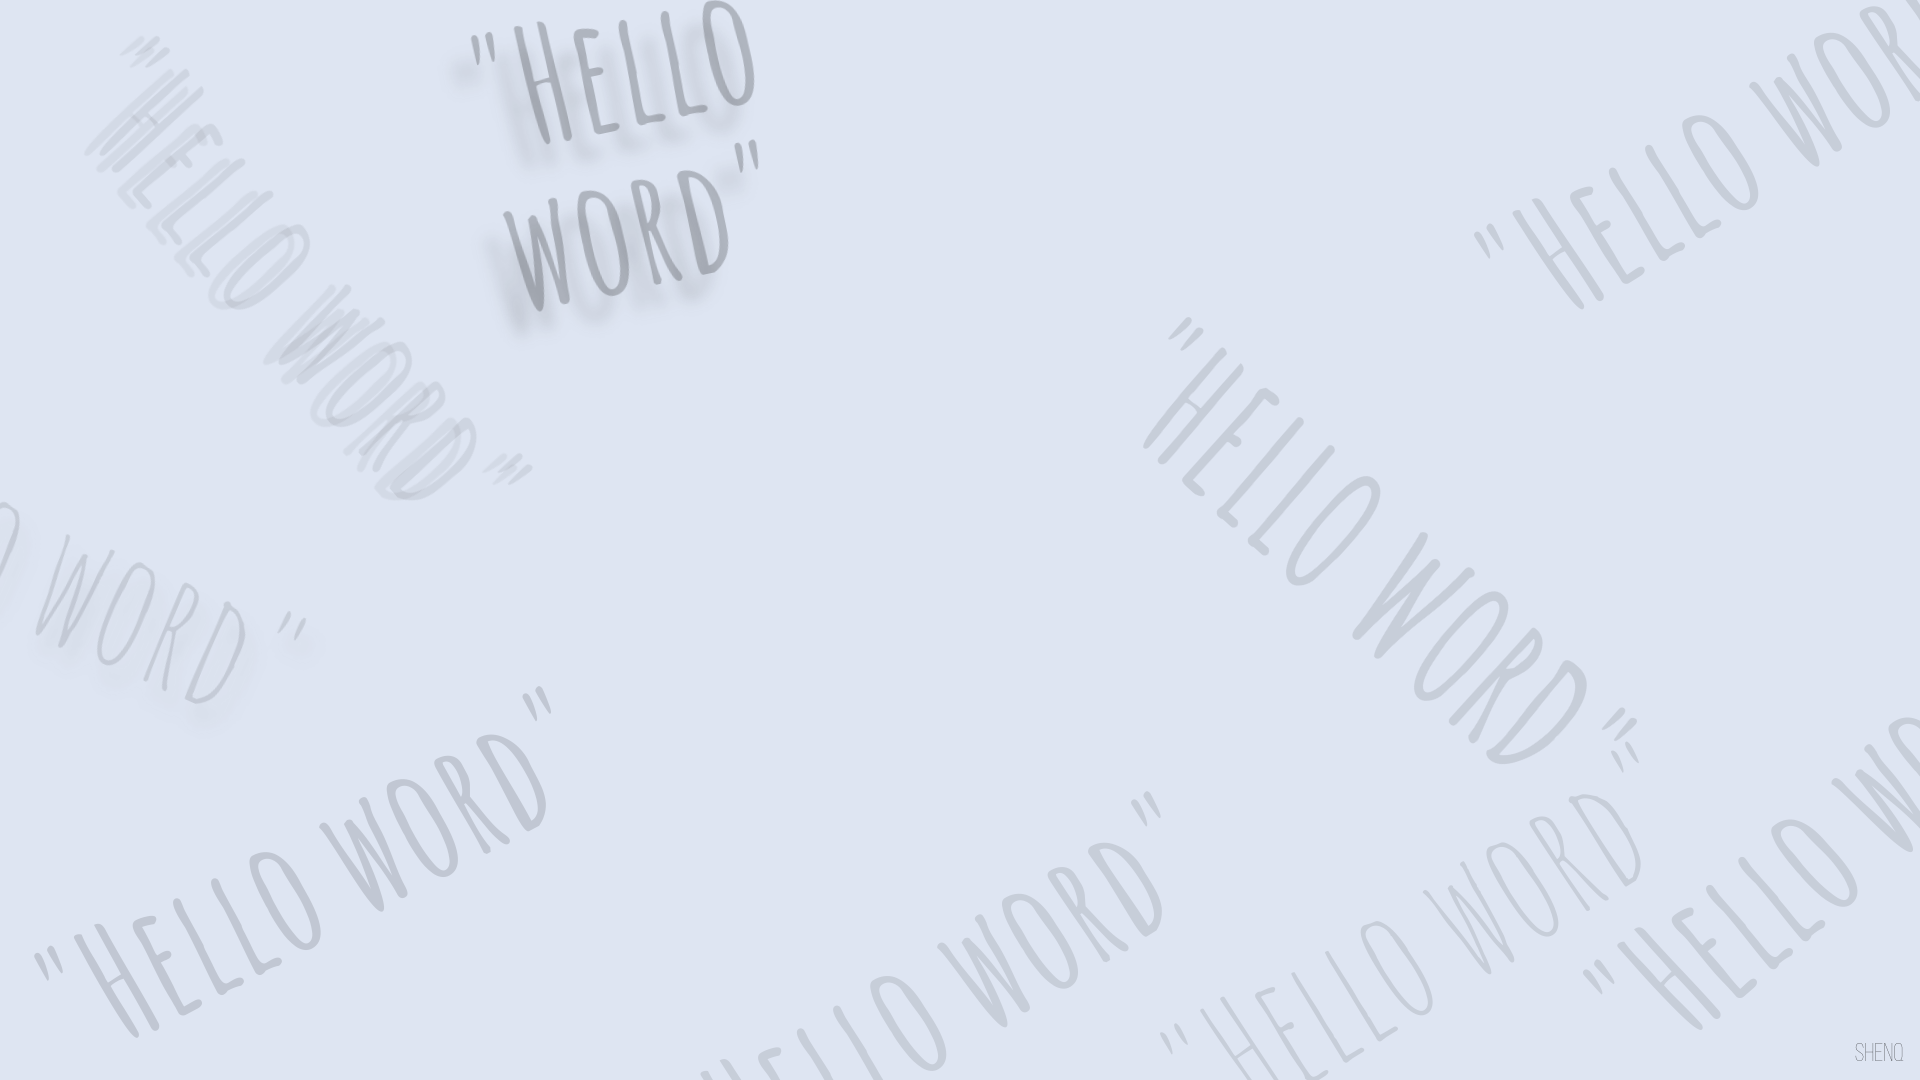
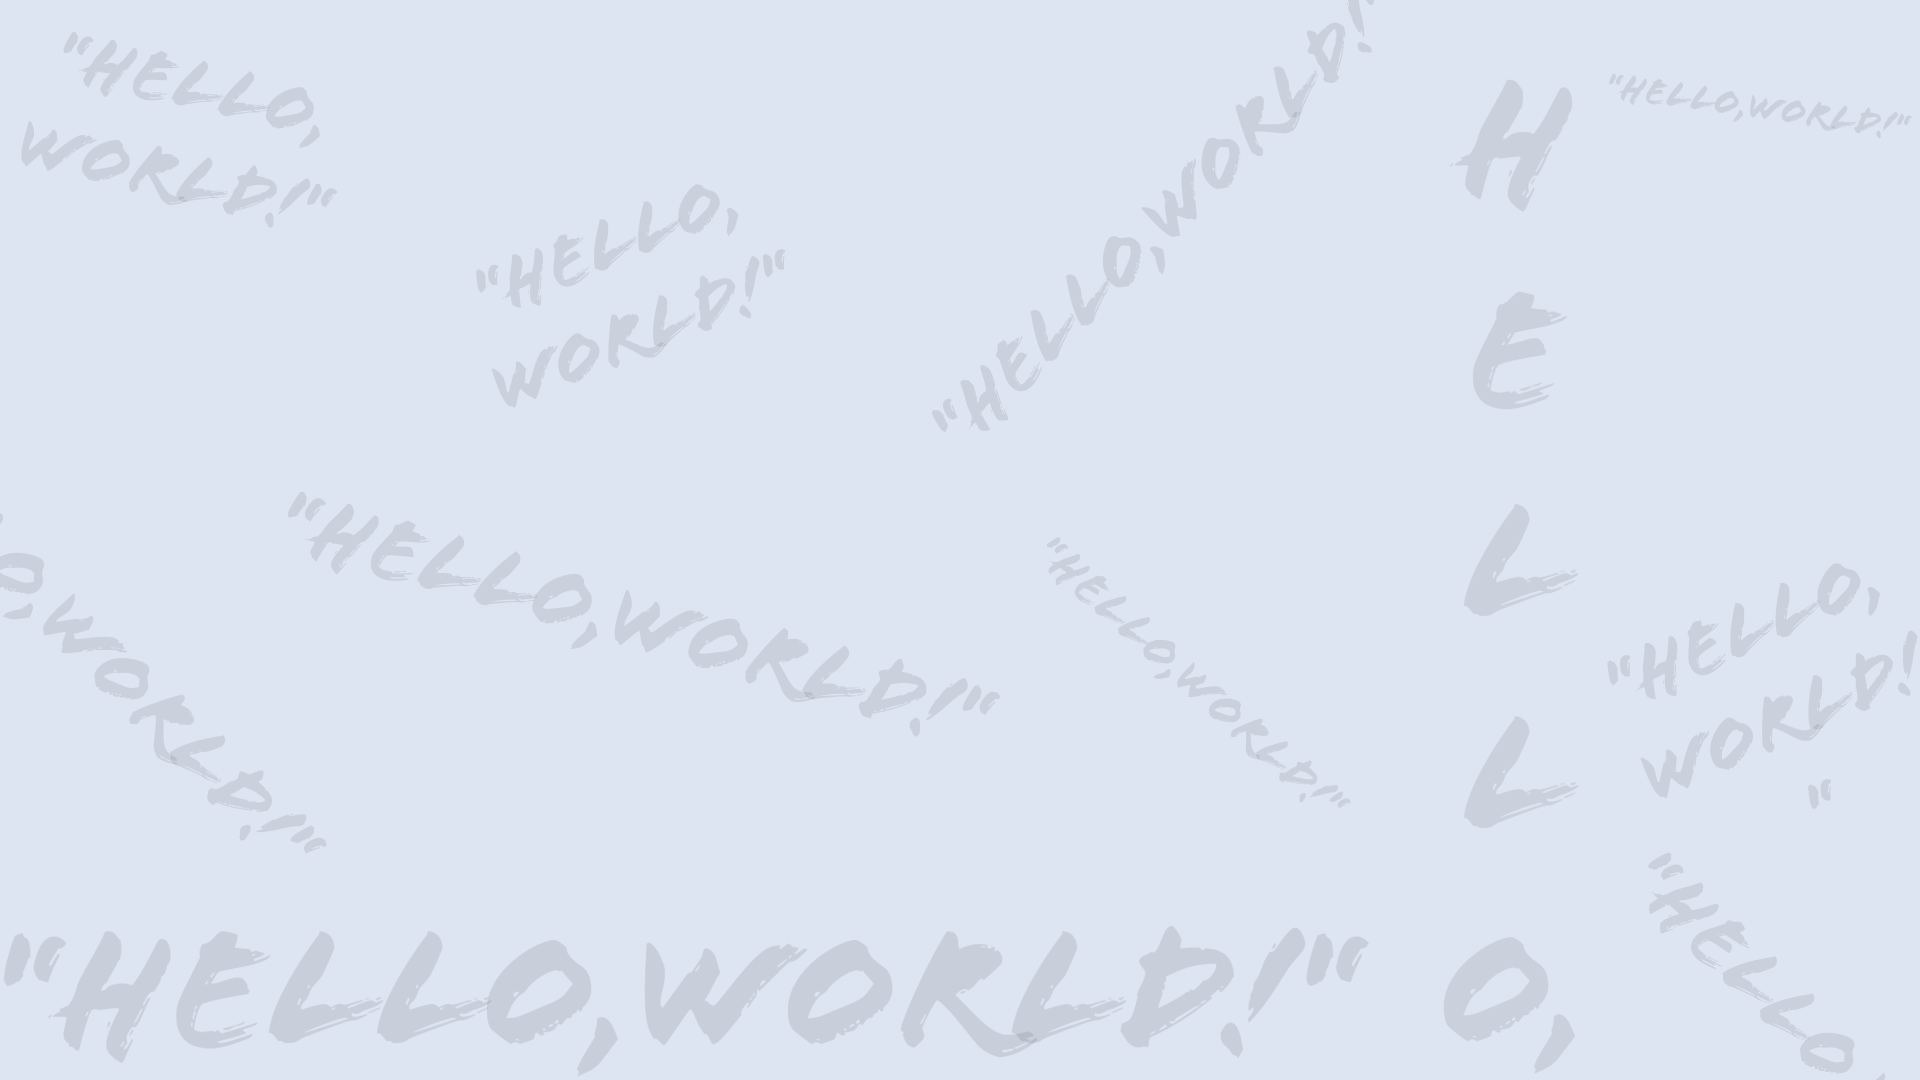
v3.4

diff --git a/index.sass b/index.sass
@@ -278,7 +278,7 @@ html,body
       height: 100%
       // background-color: #dbd0c2
       background-image: url("./img/bgImg/bgimg12.png")
-      background-position: right bottom
+      background-position: left bottom
       background-size: cover
       @media screen and (max-width: 768px)
         width: 100%

diff --git a/index.css b/index.css
@@ -489,7 +489,7 @@ html, body {
   width: 100%;
   height: 100%;
   background-image: url("./img/bgImg/bgimg12.png");
-  background-position: right bottom;
+  background-position: left bottom;
   background-size: cover;
 }
 @media screen and (max-width: 768px) {
